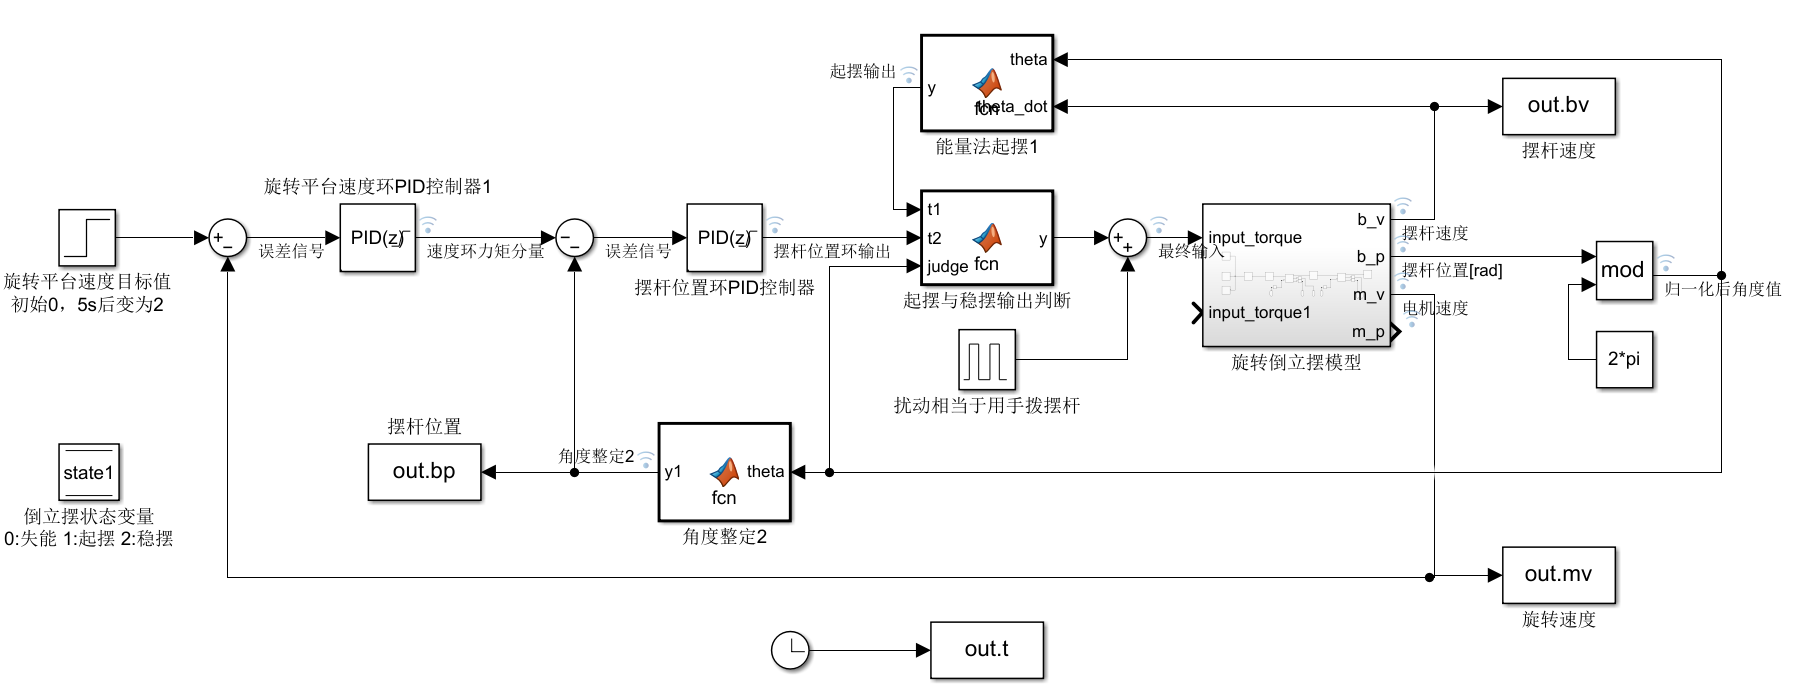
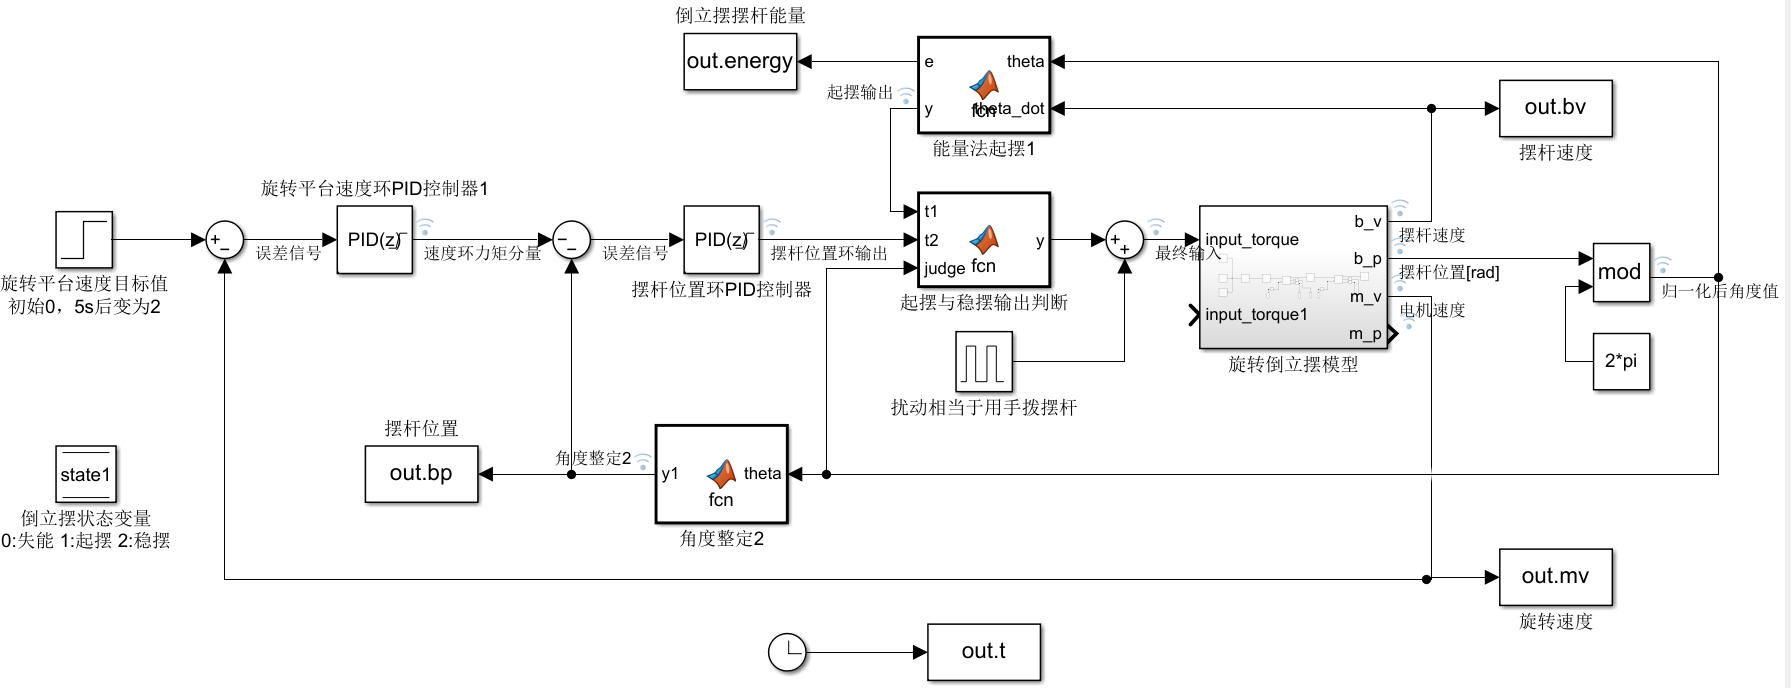
优化起摆速度

diff --git a/main.m b/main.m
@@ -6,17 +6,17 @@ out=sim('./R_InvertedPendulum.slx');
 
 %% 绘图1
 figure(1);
-plot(out.t,out.bv,'-',out.t,out.bp,'--b',out.t,out.mv,':b','LineWidth',2);
-axis([0 5 -80 80]);
+plot(out.t,out.energy*100,'-',out.t,out.bp*10,'--b',out.t,out.mv,':b','LineWidth',2);
+axis([0 0.8 -30 40]);
 xlabel('t(时间/s）','fontsize',12);
 ylabel('y(输出)','fontsize',12);
 title('旋转倒立摆变量监控','fontsize',16);
-legend('摆杆角速度', '摆杆位置','电机旋转速度');
+legend('摆杆能量(放大100倍后)', '摆杆位置(放大10倍后)','电机旋转速度');
 
 %% 绘图2
 figure(2);
 plot(out.t,out.bp,'-','LineWidth',2);
-axis([0 5 -3.2 3.2]);
+axis([0 1 -3.2 3.2]);
 xlabel('t(时间/s）','fontsize',12);
 ylabel('摆杆位置[rad]','fontsize',12);
 title('旋转倒立摆摆杆位置变化图','fontsize',16);
@@ -36,3 +36,10 @@ axis([0 5 -25 25]);
 xlabel('t(时间/s）','fontsize',12);
 ylabel('电机旋转速度[rad/s]','fontsize',12);
 title('旋转倒立摆电机旋转速度变化图','fontsize',16);
+%% 绘图5
+figure(5);
+plot(out.t,out.energy,'-','LineWidth',2);
+axis([0 1 -0.1 0.2]);
+xlabel('t(时间/s）','fontsize',12);
+ylabel('倒立摆摆杆能量','fontsize',12);
+title('旋转倒立摆摆杆能量变化图','fontsize',16);
